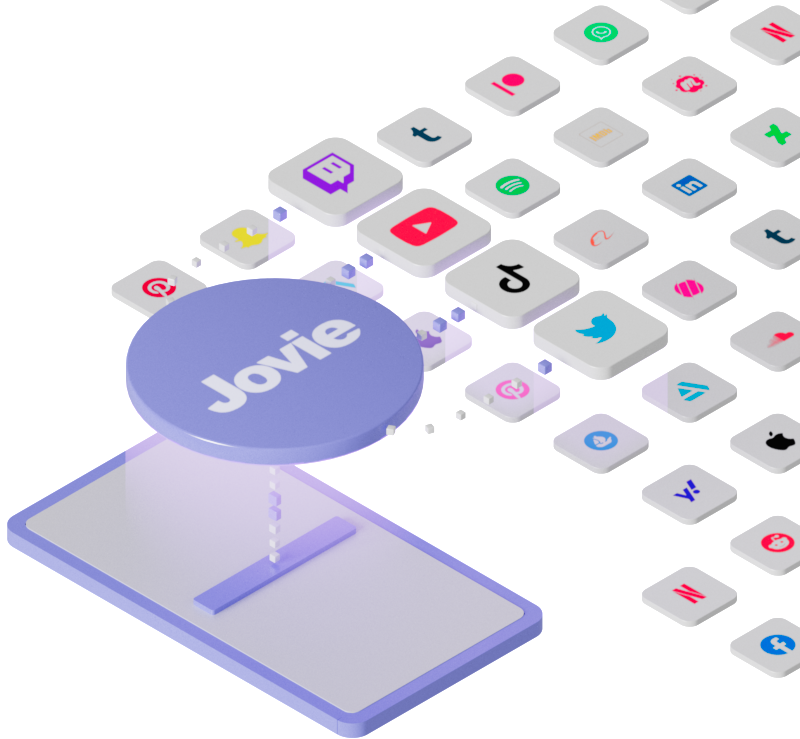
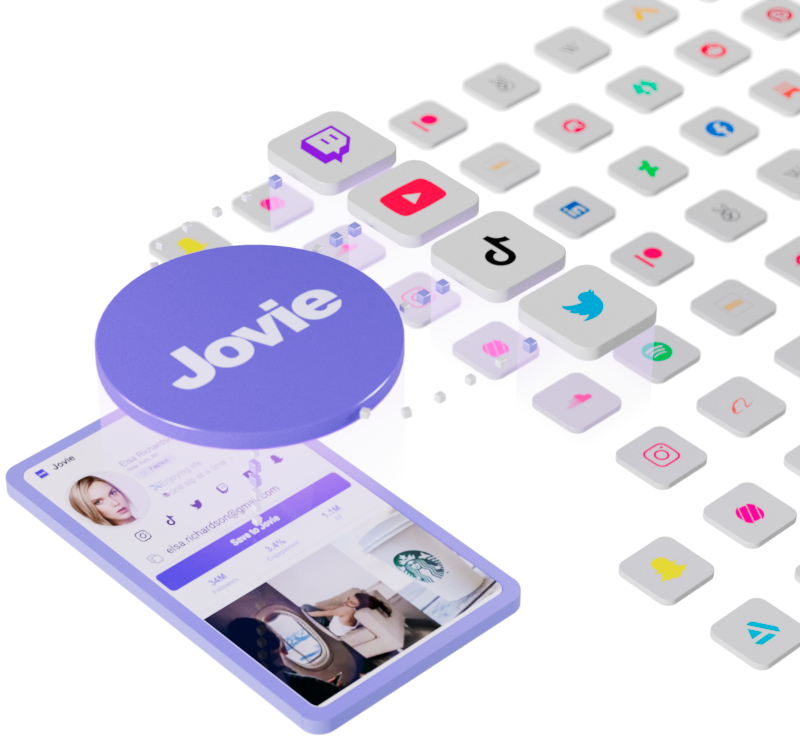
before

diff --git a/resources/js/components/External/JovieReplaces.vue b/resources/js/components/External/JovieReplaces.vue
@@ -1,66 +1,156 @@
 <template>
-  <div class="mx-auto max-w-3xl py-12 text-center">
-    <h3 class="text-xs font-bold text-neutral-600">
-      Jovie replaces complicated tools & manual workflows
-    </h3>
-    <div class="mx-auto grid max-w-md grid-cols-8 py-4 opacity-50">
-      <div class="mx-auto w-5">
-        <svg role="img" viewBox="0 0 24 24" xmlns="http://www.w3.org/2000/svg">
-          <title>HubSpot</title>
-          <path
-            d="M18.164 7.93V5.084a2.198 2.198 0 001.267-1.978v-.067A2.2 2.2 0 0017.238.845h-.067a2.2 2.2 0 00-2.193 2.193v.067a2.196 2.196 0 001.252 1.973l.013.006v2.852a6.22 6.22 0 00-2.969 1.31l.012-.01-7.828-6.095A2.497 2.497 0 104.3 4.656l-.012.006 7.697 5.991a6.176 6.176 0 00-1.038 3.446c0 1.343.425 2.588 1.147 3.607l-.013-.02-2.342 2.343a1.968 1.968 0 00-.58-.095h-.002a2.033 2.033 0 102.033 2.033 1.978 1.978 0 00-.1-.595l.005.014 2.317-2.317a6.247 6.247 0 104.782-11.134l-.036-.005zm-.964 9.378a3.206 3.206 0 113.215-3.207v.002a3.206 3.206 0 01-3.207 3.207z" />
-        </svg>
+  <div>
+    <div>
+      <div class="sm:align-center py-12 sm:mt-4 sm:flex sm:flex-col">
+        <div class="mx-auto max-w-lg">
+          <h1 class="prose mx-auto py-2 text-center text-xl font-bold">
+            Simplify your workflow
+          </h1>
+          <p class="prose mx-auto text-center text-base">
+            Jovie is a simple, easy to use, and powerful tool for managing your
+            creator partnerships.
+          </p>
+        </div>
+        <div class="relative mt-4 flex self-center rounded-full bg-neutral-200">
+          <SwitchGroup as="div" class="flex items-center">
+            <div class="flex items-center">
+              <Switch
+                v-model="beforeAfter"
+                :class="beforeAfter ? 'bg-neutral-200' : 'bg-neutral-200'"
+                class="relative inline-flex h-4 w-80 items-center rounded-lg transition-colors focus-visible:outline-none focus-visible:ring-2 focus-visible:ring-indigo-500 focus-visible:ring-offset-2">
+                <span
+                  :class="beforeAfter ? 'translate-x-0' : 'translate-x-40'"
+                  class="inline-block h-4 w-1/2 transform rounded-lg bg-indigo-700 shadow-sm transition-transform" />
+                <div class="absolute mx-auto grid w-full grid-cols-2 py-2">
+                  <div
+                    :class="beforeAfter ? 'text-white' : 'text-neutral-500'"
+                    class="py-2 text-2xs font-medium focus-visible:z-10 focus-visible:ring-2 focus-visible:ring-indigo-500 sm:w-auto">
+                    Before Jovie
+                  </div>
+                  <div
+                    :class="beforeAfter ? 'text-neutral-500' : 'text-white'"
+                    class="py-2 text-2xs font-medium text-white focus-visible:z-10 focus-visible:ring-2 focus-visible:ring-indigo-500 sm:w-auto">
+                    After Jovie
+                  </div>
+                </div>
+              </Switch>
+            </div>
+          </SwitchGroup>
+        </div>
       </div>
+    </div>
+    <div class="mx-auto h-80 max-w-md items-center px-4 pb-6 text-center">
+      <div v-if="beforeAfter">
+        <img class="rounded-lg" :src="asset('img/External/1.png')" />
+     
+      </div>
+      <div v-else>
+        <img class="rounded-lg" :src="asset('img/External/2.png')" />
+        
+      </div>
+    </div>
+    <div class="mx-auto max-w-3xl py-6 text-center">
+      <h3 class="text-xs font-bold text-neutral-600">
+        Jovie replaces complicated tools & manual workflows
+      </h3>
+      <div class="mx-auto grid max-w-md grid-cols-8 py-4 opacity-50">
+        <div class="mx-auto w-5">
+          <svg
+            role="img"
+            viewBox="0 0 24 24"
+            xmlns="http://www.w3.org/2000/svg">
+            <title>HubSpot</title>
+            <path
+              d="M18.164 7.93V5.084a2.198 2.198 0 001.267-1.978v-.067A2.2 2.2 0 0017.238.845h-.067a2.2 2.2 0 00-2.193 2.193v.067a2.196 2.196 0 001.252 1.973l.013.006v2.852a6.22 6.22 0 00-2.969 1.31l.012-.01-7.828-6.095A2.497 2.497 0 104.3 4.656l-.012.006 7.697 5.991a6.176 6.176 0 00-1.038 3.446c0 1.343.425 2.588 1.147 3.607l-.013-.02-2.342 2.343a1.968 1.968 0 00-.58-.095h-.002a2.033 2.033 0 102.033 2.033 1.978 1.978 0 00-.1-.595l.005.014 2.317-2.317a6.247 6.247 0 104.782-11.134l-.036-.005zm-.964 9.378a3.206 3.206 0 113.215-3.207v.002a3.206 3.206 0 01-3.207 3.207z" />
+          </svg>
+        </div>
 
-      <div class="mx-auto w-5">
-        <svg role="img" viewBox="0 0 24 24" xmlns="http://www.w3.org/2000/svg">
-          <title>Notion</title>
-          <path
-            d="M4.459 4.208c.746.606 1.026.56 2.428.466l13.215-.793c.28 0 .047-.28-.046-.326L17.86 1.968c-.42-.326-.981-.7-2.055-.607L3.01 2.295c-.466.046-.56.28-.374.466zm.793 3.08v13.904c0 .747.373 1.027 1.214.98l14.523-.84c.841-.046.935-.56.935-1.167V6.354c0-.606-.233-.933-.748-.887l-15.177.887c-.56.047-.747.327-.747.933zm14.337.745c.093.42 0 .84-.42.888l-.7.14v10.264c-.608.327-1.168.514-1.635.514-.748 0-.935-.234-1.495-.933l-4.577-7.186v6.952L12.21 19s0 .84-1.168.84l-3.222.186c-.093-.186 0-.653.327-.746l.84-.233V9.854L7.822 9.76c-.094-.42.14-1.026.793-1.073l3.456-.233 4.764 7.279v-6.44l-1.215-.139c-.093-.514.28-.887.747-.933zM1.936 1.035l13.31-.98c1.634-.14 2.055-.047 3.082.7l4.249 2.986c.7.513.934.653.934 1.213v16.378c0 1.026-.373 1.634-1.68 1.726l-15.458.934c-.98.047-1.448-.093-1.962-.747l-3.129-4.06c-.56-.747-.793-1.306-.793-1.96V2.667c0-.839.374-1.54 1.447-1.632z" />
-        </svg>
-      </div>
-      <div class="mx-auto w-5">
-        <svg role="img" viewBox="0 0 24 24" xmlns="http://www.w3.org/2000/svg">
-          <title>Adobe Acrobat Reader</title>
-          <path
-            d="M23.63 15.3c-.71-.745-2.166-1.17-4.224-1.17-1.1 0-2.377.106-3.761.354a19.443 19.443 0 0 1-2.307-2.661c-.532-.71-.994-1.49-1.42-2.236.817-2.484 1.207-4.507 1.207-5.962 0-1.632-.603-3.336-2.342-3.336-.532 0-1.065.32-1.349.781-.78 1.384-.425 4.4.923 7.381a60.277 60.277 0 0 1-1.703 4.507c-.568 1.349-1.207 2.733-1.917 4.01C2.834 18.53.314 20.34.03 21.758c-.106.533.071 1.03.462 1.42.142.107.639.533 1.49.533 2.59 0 5.323-4.188 6.707-6.707 1.065-.355 2.13-.71 3.194-.994a34.963 34.963 0 0 1 3.407-.745c2.732 2.448 5.145 2.839 6.352 2.839 1.49 0 2.023-.604 2.2-1.1.32-.64.106-1.349-.213-1.704zm-1.42 1.03c-.107.532-.64.887-1.384.887-.213 0-.39-.036-.604-.071-1.348-.32-2.626-.994-3.903-2.059a17.717 17.717 0 0 1 2.98-.248c.746 0 1.385.035 1.81.142.497.106 1.278.426 1.1 1.348zm-7.524-1.668a38.01 38.01 0 0 0-2.945.674 39.68 39.68 0 0 0-2.52.745 40.05 40.05 0 0 0 1.207-2.555c.426-.994.78-2.023 1.136-2.981.354.603.745 1.207 1.135 1.739a50.127 50.127 0 0 0 1.987 2.378zM10.038 1.46a.768.768 0 0 1 .674-.425c.745 0 .887.851.887 1.526 0 1.135-.355 2.874-.958 4.861-1.03-2.768-1.1-5.074-.603-5.962zM6.134 17.997c-1.81 2.981-3.549 4.826-4.613 4.826a.872.872 0 0 1-.532-.177c-.213-.213-.32-.461-.249-.745.213-1.065 2.271-2.555 5.394-3.904Z" />
-        </svg>
-      </div>
-      <div class="mx-auto w-5">
-        <svg role="img" viewBox="0 0 24 24" xmlns="http://www.w3.org/2000/svg">
-          <title>Salesforce</title>
-          <path
-            d="M10.006 5.415a4.195 4.195 0 013.045-1.306c1.56 0 2.954.9 3.69 2.205.63-.3 1.35-.45 2.1-.45 2.85 0 5.159 2.34 5.159 5.22s-2.31 5.22-5.176 5.22c-.345 0-.69-.044-1.02-.104a3.75 3.75 0 01-3.3 1.95c-.6 0-1.155-.15-1.65-.375A4.314 4.314 0 018.88 20.4a4.302 4.302 0 01-4.05-2.82c-.27.062-.54.076-.825.076-2.204 0-4.005-1.8-4.005-4.05 0-1.5.811-2.805 2.01-3.51-.255-.57-.39-1.2-.39-1.846 0-2.58 2.1-4.65 4.65-4.65 1.53 0 2.85.705 3.72 1.8" />
-        </svg>
-      </div>
-      <div class="mx-auto w-5">
-        <svg role="img" viewBox="0 0 24 24" xmlns="http://www.w3.org/2000/svg">
-          <title>Microsoft Excel</title>
-          <path
-            d="M23 1.5q.41 0 .7.3.3.29.3.7v19q0 .41-.3.7-.29.3-.7.3H7q-.41 0-.7-.3-.3-.29-.3-.7V18H1q-.41 0-.7-.3-.3-.29-.3-.7V7q0-.41.3-.7Q.58 6 1 6h5V2.5q0-.41.3-.7.29-.3.7-.3zM6 13.28l1.42 2.66h2.14l-2.38-3.87 2.34-3.8H7.46l-1.3 2.4-.05.08-.04.09-.64-1.28-.66-1.29H2.59l2.27 3.82-2.48 3.85h2.16zM14.25 21v-3H7.5v3zm0-4.5v-3.75H12v3.75zm0-5.25V7.5H12v3.75zm0-5.25V3H7.5v3zm8.25 15v-3h-6.75v3zm0-4.5v-3.75h-6.75v3.75zm0-5.25V7.5h-6.75v3.75zm0-5.25V3h-6.75v3Z" />
-        </svg>
-      </div>
-      <div class="mx-auto w-5">
-        <svg role="img" viewBox="0 0 24 24" xmlns="http://www.w3.org/2000/svg">
-          <title>Google Sheets</title>
-          <path
-            d="M11.318 12.545H7.91v-1.909h3.41v1.91zM14.728 0v6h6l-6-6zm1.363 10.636h-3.41v1.91h3.41v-1.91zm0 3.273h-3.41v1.91h3.41v-1.91zM20.727 6.5v15.864c0 .904-.732 1.636-1.636 1.636H4.909a1.636 1.636 0 0 1-1.636-1.636V1.636C3.273.732 4.005 0 4.909 0h9.318v6.5h6.5zm-3.273 2.773H6.545v7.909h10.91v-7.91zm-6.136 4.636H7.91v1.91h3.41v-1.91z" />
-        </svg>
-      </div>
-      <div class="mx-auto w-5">
-        <svg role="img" viewBox="0 0 24 24" xmlns="http://www.w3.org/2000/svg">
-          <title>DocuSign</title>
-          <path
-            d="M9.517 3.31h4.966v6.621h3.31L12 16.552 6.207 9.931h3.31V3.31zM0 19.034h24v1.655H0v-1.655z" />
-        </svg>
-      </div>
-      <div class="mx-auto w-5">
-        <svg role="img" viewBox="0 0 24 24" xmlns="http://www.w3.org/2000/svg">
-          <title>Airtable</title>
-          <path
-            d="M11.992 1.966c-.434 0-.87.086-1.28.257L1.779 5.917c-.503.208-.49.908.012 1.116l8.982 3.558a3.266 3.266 0 0 0 2.454 0l8.982-3.558c.503-.196.503-.908.012-1.116l-8.957-3.694a3.255 3.255 0 0 0-1.272-.257zM23.4 8.056a.589.589 0 0 0-.222.045l-10.012 3.877a.612.612 0 0 0-.38.564v8.896a.6.6 0 0 0 .821.552L23.62 18.1a.583.583 0 0 0 .38-.551V8.653a.6.6 0 0 0-.6-.596zM.676 8.095a.644.644 0 0 0-.48.19C.086 8.396 0 8.53 0 8.69v8.355c0 .442.515.737.908.54l6.27-3.006.307-.147 2.969-1.436c.466-.22.43-.908-.061-1.092L.883 8.138a.57.57 0 0 0-.207-.044z" />
-        </svg>
+        <div class="mx-auto w-5">
+          <svg
+            role="img"
+            viewBox="0 0 24 24"
+            xmlns="http://www.w3.org/2000/svg">
+            <title>Notion</title>
+            <path
+              d="M4.459 4.208c.746.606 1.026.56 2.428.466l13.215-.793c.28 0 .047-.28-.046-.326L17.86 1.968c-.42-.326-.981-.7-2.055-.607L3.01 2.295c-.466.046-.56.28-.374.466zm.793 3.08v13.904c0 .747.373 1.027 1.214.98l14.523-.84c.841-.046.935-.56.935-1.167V6.354c0-.606-.233-.933-.748-.887l-15.177.887c-.56.047-.747.327-.747.933zm14.337.745c.093.42 0 .84-.42.888l-.7.14v10.264c-.608.327-1.168.514-1.635.514-.748 0-.935-.234-1.495-.933l-4.577-7.186v6.952L12.21 19s0 .84-1.168.84l-3.222.186c-.093-.186 0-.653.327-.746l.84-.233V9.854L7.822 9.76c-.094-.42.14-1.026.793-1.073l3.456-.233 4.764 7.279v-6.44l-1.215-.139c-.093-.514.28-.887.747-.933zM1.936 1.035l13.31-.98c1.634-.14 2.055-.047 3.082.7l4.249 2.986c.7.513.934.653.934 1.213v16.378c0 1.026-.373 1.634-1.68 1.726l-15.458.934c-.98.047-1.448-.093-1.962-.747l-3.129-4.06c-.56-.747-.793-1.306-.793-1.96V2.667c0-.839.374-1.54 1.447-1.632z" />
+          </svg>
+        </div>
+        <div class="mx-auto w-5">
+          <svg
+            role="img"
+            viewBox="0 0 24 24"
+            xmlns="http://www.w3.org/2000/svg">
+            <title>Adobe Acrobat Reader</title>
+            <path
+              d="M23.63 15.3c-.71-.745-2.166-1.17-4.224-1.17-1.1 0-2.377.106-3.761.354a19.443 19.443 0 0 1-2.307-2.661c-.532-.71-.994-1.49-1.42-2.236.817-2.484 1.207-4.507 1.207-5.962 0-1.632-.603-3.336-2.342-3.336-.532 0-1.065.32-1.349.781-.78 1.384-.425 4.4.923 7.381a60.277 60.277 0 0 1-1.703 4.507c-.568 1.349-1.207 2.733-1.917 4.01C2.834 18.53.314 20.34.03 21.758c-.106.533.071 1.03.462 1.42.142.107.639.533 1.49.533 2.59 0 5.323-4.188 6.707-6.707 1.065-.355 2.13-.71 3.194-.994a34.963 34.963 0 0 1 3.407-.745c2.732 2.448 5.145 2.839 6.352 2.839 1.49 0 2.023-.604 2.2-1.1.32-.64.106-1.349-.213-1.704zm-1.42 1.03c-.107.532-.64.887-1.384.887-.213 0-.39-.036-.604-.071-1.348-.32-2.626-.994-3.903-2.059a17.717 17.717 0 0 1 2.98-.248c.746 0 1.385.035 1.81.142.497.106 1.278.426 1.1 1.348zm-7.524-1.668a38.01 38.01 0 0 0-2.945.674 39.68 39.68 0 0 0-2.52.745 40.05 40.05 0 0 0 1.207-2.555c.426-.994.78-2.023 1.136-2.981.354.603.745 1.207 1.135 1.739a50.127 50.127 0 0 0 1.987 2.378zM10.038 1.46a.768.768 0 0 1 .674-.425c.745 0 .887.851.887 1.526 0 1.135-.355 2.874-.958 4.861-1.03-2.768-1.1-5.074-.603-5.962zM6.134 17.997c-1.81 2.981-3.549 4.826-4.613 4.826a.872.872 0 0 1-.532-.177c-.213-.213-.32-.461-.249-.745.213-1.065 2.271-2.555 5.394-3.904Z" />
+          </svg>
+        </div>
+        <div class="mx-auto w-5">
+          <svg
+            role="img"
+            viewBox="0 0 24 24"
+            xmlns="http://www.w3.org/2000/svg">
+            <title>Salesforce</title>
+            <path
+              d="M10.006 5.415a4.195 4.195 0 013.045-1.306c1.56 0 2.954.9 3.69 2.205.63-.3 1.35-.45 2.1-.45 2.85 0 5.159 2.34 5.159 5.22s-2.31 5.22-5.176 5.22c-.345 0-.69-.044-1.02-.104a3.75 3.75 0 01-3.3 1.95c-.6 0-1.155-.15-1.65-.375A4.314 4.314 0 018.88 20.4a4.302 4.302 0 01-4.05-2.82c-.27.062-.54.076-.825.076-2.204 0-4.005-1.8-4.005-4.05 0-1.5.811-2.805 2.01-3.51-.255-.57-.39-1.2-.39-1.846 0-2.58 2.1-4.65 4.65-4.65 1.53 0 2.85.705 3.72 1.8" />
+          </svg>
+        </div>
+        <div class="mx-auto w-5">
+          <svg
+            role="img"
+            viewBox="0 0 24 24"
+            xmlns="http://www.w3.org/2000/svg">
+            <title>Microsoft Excel</title>
+            <path
+              d="M23 1.5q.41 0 .7.3.3.29.3.7v19q0 .41-.3.7-.29.3-.7.3H7q-.41 0-.7-.3-.3-.29-.3-.7V18H1q-.41 0-.7-.3-.3-.29-.3-.7V7q0-.41.3-.7Q.58 6 1 6h5V2.5q0-.41.3-.7.29-.3.7-.3zM6 13.28l1.42 2.66h2.14l-2.38-3.87 2.34-3.8H7.46l-1.3 2.4-.05.08-.04.09-.64-1.28-.66-1.29H2.59l2.27 3.82-2.48 3.85h2.16zM14.25 21v-3H7.5v3zm0-4.5v-3.75H12v3.75zm0-5.25V7.5H12v3.75zm0-5.25V3H7.5v3zm8.25 15v-3h-6.75v3zm0-4.5v-3.75h-6.75v3.75zm0-5.25V7.5h-6.75v3.75zm0-5.25V3h-6.75v3Z" />
+          </svg>
+        </div>
+        <div class="mx-auto w-5">
+          <svg
+            role="img"
+            viewBox="0 0 24 24"
+            xmlns="http://www.w3.org/2000/svg">
+            <title>Google Sheets</title>
+            <path
+              d="M11.318 12.545H7.91v-1.909h3.41v1.91zM14.728 0v6h6l-6-6zm1.363 10.636h-3.41v1.91h3.41v-1.91zm0 3.273h-3.41v1.91h3.41v-1.91zM20.727 6.5v15.864c0 .904-.732 1.636-1.636 1.636H4.909a1.636 1.636 0 0 1-1.636-1.636V1.636C3.273.732 4.005 0 4.909 0h9.318v6.5h6.5zm-3.273 2.773H6.545v7.909h10.91v-7.91zm-6.136 4.636H7.91v1.91h3.41v-1.91z" />
+          </svg>
+        </div>
+        <div class="mx-auto w-5">
+          <svg
+            role="img"
+            viewBox="0 0 24 24"
+            xmlns="http://www.w3.org/2000/svg">
+            <title>DocuSign</title>
+            <path
+              d="M9.517 3.31h4.966v6.621h3.31L12 16.552 6.207 9.931h3.31V3.31zM0 19.034h24v1.655H0v-1.655z" />
+          </svg>
+        </div>
+        <div class="mx-auto w-5">
+          <svg
+            role="img"
+            viewBox="0 0 24 24"
+            xmlns="http://www.w3.org/2000/svg">
+            <title>Airtable</title>
+            <path
+              d="M11.992 1.966c-.434 0-.87.086-1.28.257L1.779 5.917c-.503.208-.49.908.012 1.116l8.982 3.558a3.266 3.266 0 0 0 2.454 0l8.982-3.558c.503-.196.503-.908.012-1.116l-8.957-3.694a3.255 3.255 0 0 0-1.272-.257zM23.4 8.056a.589.589 0 0 0-.222.045l-10.012 3.877a.612.612 0 0 0-.38.564v8.896a.6.6 0 0 0 .821.552L23.62 18.1a.583.583 0 0 0 .38-.551V8.653a.6.6 0 0 0-.6-.596zM.676 8.095a.644.644 0 0 0-.48.19C.086 8.396 0 8.53 0 8.69v8.355c0 .442.515.737.908.54l6.27-3.006.307-.147 2.969-1.436c.466-.22.43-.908-.061-1.092L.883 8.138a.57.57 0 0 0-.207-.044z" />
+          </svg>
+        </div>
       </div>
     </div>
   </div>
 </template>
+<script>
+import { Switch, SwitchGroup } from '@headlessui/vue';
+
+export default {
+  components: {
+    Switch,
+    SwitchGroup,
+  },
+  data() {
+    return {
+      beforeAfter: false,
+    };
+  },
+};
+</script>

diff --git a/resources/js/views/Enrichment.vue b/resources/js/views/Enrichment.vue
@@ -68,14 +68,10 @@
             </div>
           </div>
           <div class="mt-12 -mb-16 sm:-mb-48 lg:relative lg:m-0">
-            <div
-              class="mx-auto max-w-md px-4 sm:max-w-2xl sm:px-6 lg:max-w-none lg:px-0">
-              <!-- Illustration taken from Lucid Illustrations: https://lucid.pixsellz.io/ -->
-              <img
-                class="w-full lg:absolute lg:inset-y-0 lg:left-0 lg:h-full lg:w-auto lg:max-w-none"
-                :src="asset('img/External/jovie_social_data_enrichment.png')"
-                alt="" />
-            </div>
+            <img
+              class="w-full lg:absolute lg:inset-y-0 lg:left-0 lg:h-full lg:w-auto lg:max-w-none"
+              :src="asset('img/External/jovie_social_data_enrichment.png')"
+              alt="" />
           </div>
         </div>
       </div>
@@ -211,7 +207,7 @@ export default {
             this.error = null;
             this.loading = false;
             this.waitlistComplete = true;
-            this.$router.push('/signup');
+            this.$router.push('signup');
           }
         })
         .catch((error) => {

diff --git a/resources/js/components/External/NewsletterSignup.vue b/resources/js/components/External/NewsletterSignup.vue
@@ -32,12 +32,12 @@
         <form
           v-if="waitlistComplete == false"
           class="mt-4 sm:flex sm:max-w-md lg:mt-0">
-          <label for="email-address" class="sr-only">Email address</label>
+          <label for="email" class="sr-only">Email address</label>
           <input
             type="email"
             v-on:keyup.enter="requestDemo()"
             v-model="waitListEmail"
-            name="email-address"
+            name="email"
             id="hero-email"
             autocomplete="email"
             required=""
@@ -95,6 +95,7 @@ export default {
             this.error = null;
             this.loading = false;
             this.waitlistComplete = true;
+            window.location.href = '/signup?email=' + this.waitListEmail;
           }
         })
         .catch((error) => {

diff --git a/resources/js/views/Signup.vue b/resources/js/views/Signup.vue
@@ -232,6 +232,9 @@ export default {
       submitting: false,
     };
   },
+  created() {
+    const email = this.$route.params.email;
+  },
   methods: {
     back() {
       this.user.password = '';
